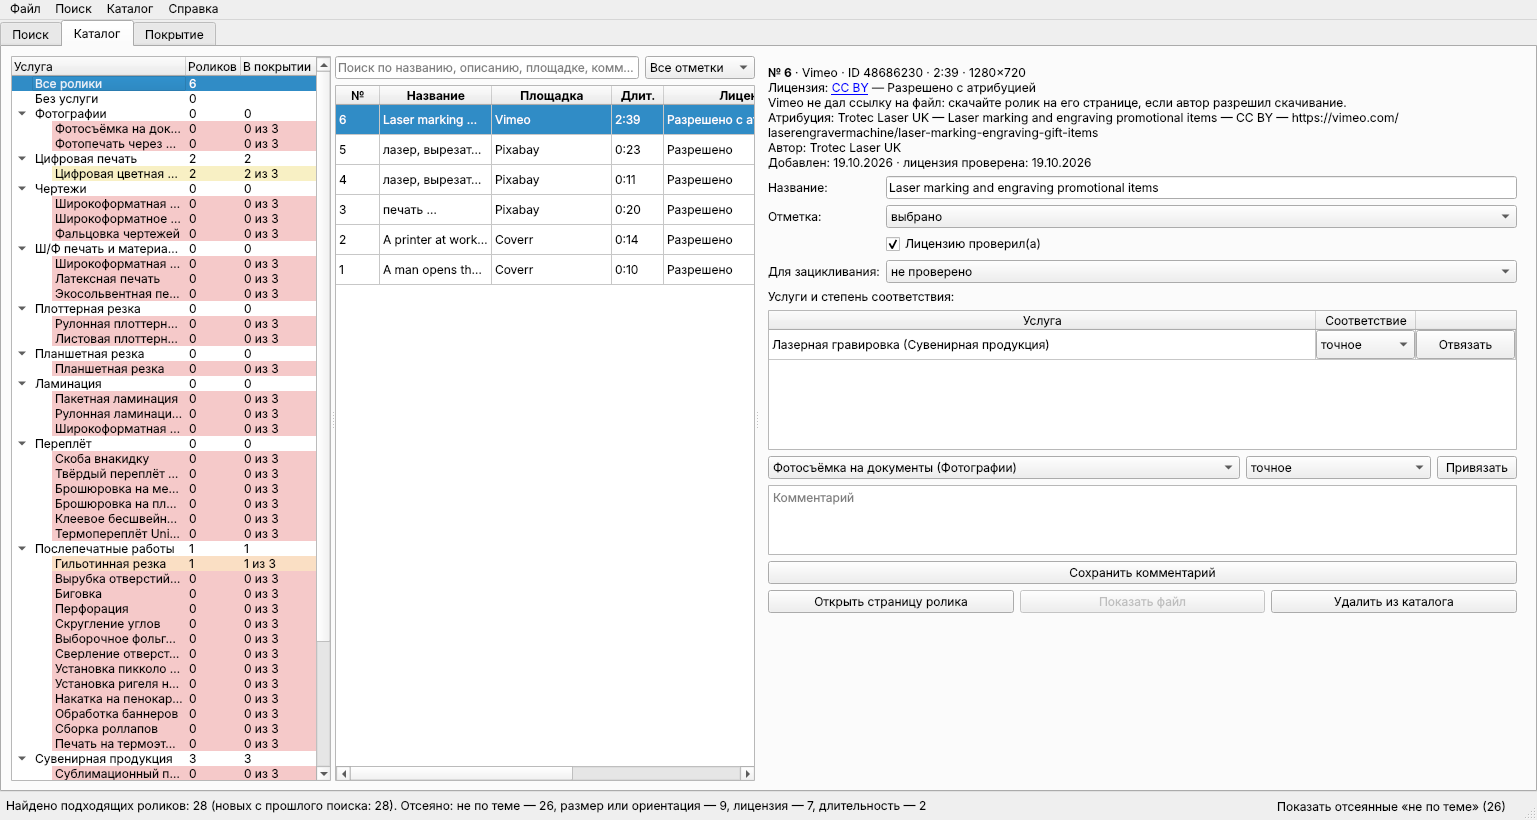
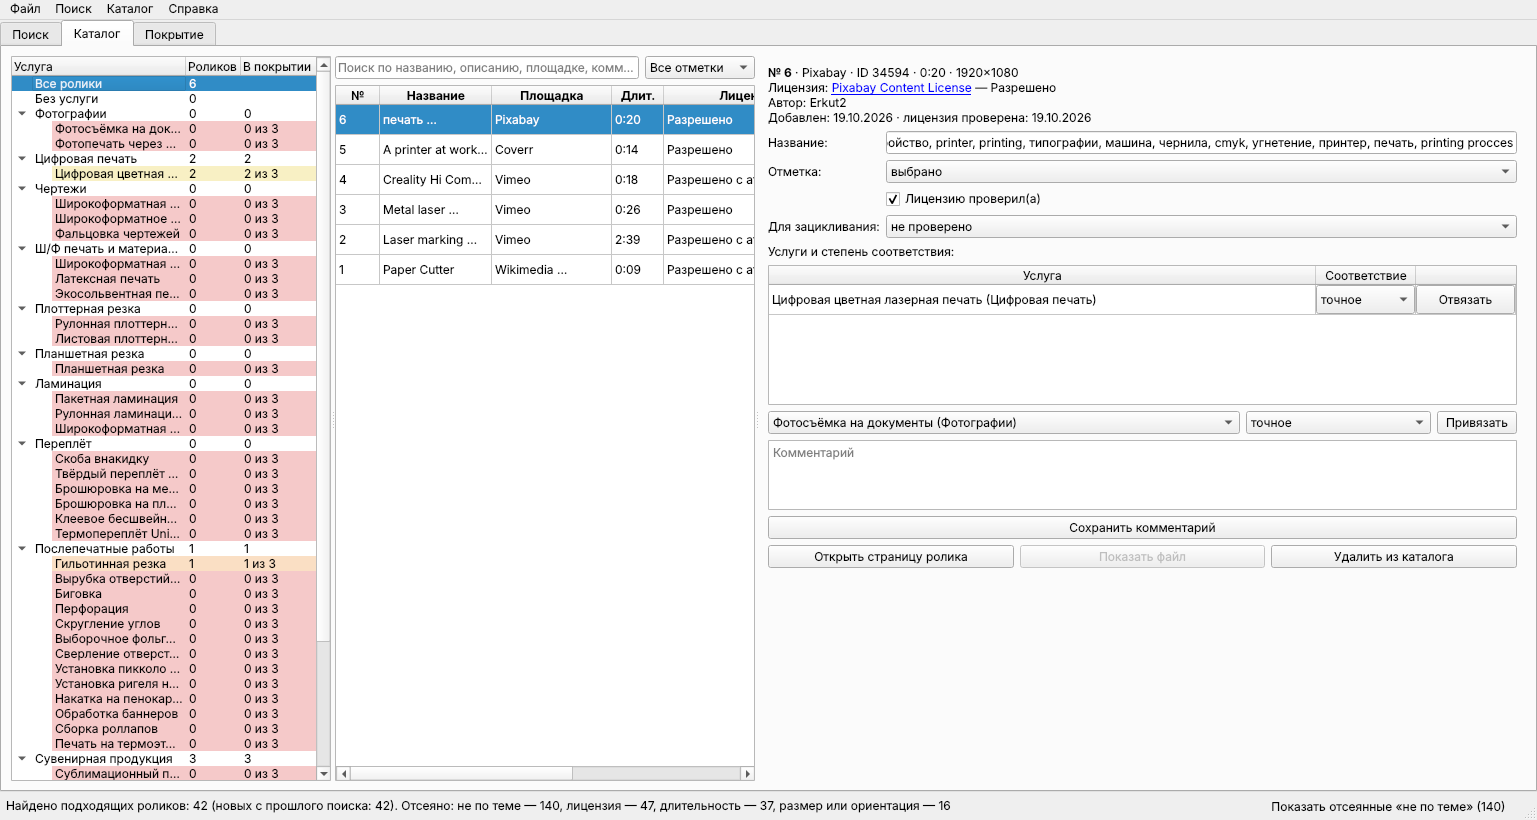
Отсев металлообработки, превью Coverr в AVIF, новые скриншоты
- Чужие темы: металлообработка (сварка, кузница, плазменная резка, искры, сталь) на русском
  и английском — по «лазерной гравировке» Pixabay отдавал резку металла; сигары и табак
- Гильотинная резка: исключены шредеры и резка втулок
- Превью Coverr приходят в AVIF, который Qt не читает, — декодируются через Pillow
- Скриншоты README пересняты с исправленной выдачей
- Версия 0.11.2

Claude-Session: https://claude.ai/code/session_01Uzu7bGifGsiu2ioQ2DCZsf

diff --git a/tests/test_search.py b/tests/test_search.py
@@ -263,6 +263,10 @@ def test_service_exclude_words():
     assert is_excluded(tagged("1", "принтер, 3д печать, 3d"), plan.exclude)
     assert not is_excluded(tagged("2", "printer, office, paper"), plan.exclude)
     assert build_plan("3D-печать", procs, Dictionary.load()).exclude == frozenset()
+    guillotine = build_plan("Гильотинная резка", procs, Dictionary.load())
+    assert is_excluded(tagged("3", "A man opens the shredder machine after cutting a sheet, paper"), guillotine.exclude)
+    assert is_excluded(tagged("4", "automatic paper tube cutting machine"), guillotine.exclude)
+    assert not is_excluded(tagged("5", "Paper cutting process in a press"), guillotine.exclude)
 
 
 @pytest.mark.parametrize("tags, ok", [
@@ -276,6 +280,14 @@ def test_service_exclude_words():
     ("Solid State Delayed Lenz Effect in laminated steel core proved with the VRM measurement", False),
     ("mug, sublimation, heat press, souvenir", True),
     ("printing 3d, printer 3d, close 3d printing", True),
+    # Настоящий промах Pixabay по «лазерной гравировке»: плазменная резка металла с искрами.
+    ("лазер, вырезать, элемент дизайна, точность, гравировка, пламя, горящий, искры, самодельный, кузнец, "
+     "стали, ремесло, металлический, металлоконструкции, ручной работы", False),
+    ("laser, cut out, design element, accuracy, engraving, flame, burning, sparks, blacksmith, steel, metalwork", False),
+    ("машина лазера, лазерная резка, технология, лазер, плазмы, промышленный, фабрика, стали, металл", False),
+    ("laser engraving, acrylic, souvenir, gift, keychain", True),
+    ("лазерная гравировка, металлическая ручка, сувенир, подарок", True),
+    ("How to Properly Cut a Cigar with a Guillotine Cutter", False),
 ])
 def test_only_printing_domain(tags, ok):
     from app.search import is_relevant

diff --git a/app/ui/main_window.py b/app/ui/main_window.py
@@ -1,12 +1,13 @@
 """Главное окно: одно поле ввода услуги, сетка результатов и панель просмотра."""
 
+import io
 from html import escape
 
 from datetime import datetime
 from pathlib import Path
 
 from PyQt6.QtCore import QSize, QStringListModel, Qt, QTimer, QUrl
-from PyQt6.QtGui import QAction, QDesktopServices, QIcon, QPixmap
+from PyQt6.QtGui import QAction, QDesktopServices, QIcon, QImage, QPixmap
 from PyQt6.QtNetwork import QNetworkAccessManager, QNetworkReply, QNetworkRequest
 from PyQt6.QtWidgets import (
     QCompleter,
@@ -50,6 +51,22 @@ from app.ui.tools import DictionaryDialog, DuplicatesDialog, HistoryDialog
 from app.ui.update import UpdateController
 
 THUMB = QSize(256, 144)
+
+
+def load_image(data: bytes) -> QImage:
+    """Картинка превью. Форматы, которых Qt не знает (Coverr отдаёт AVIF), — через Pillow."""
+    image = QImage()
+    if image.loadFromData(data):
+        return image
+    try:
+        from PIL import Image
+        with Image.open(io.BytesIO(data)) as img:
+            png = io.BytesIO()
+            img.convert("RGB").save(png, "PNG")
+        image.loadFromData(png.getvalue())
+    except (OSError, ValueError):
+        pass  # битая картинка — плитка без превью
+    return image
 
 
 def all_sources(settings: Settings, cache: Cache) -> list[Source]:
@@ -472,8 +489,9 @@ class MainWindow(QMainWindow):
     def _on_thumbnail(self, reply: QNetworkReply):
         token = reply.request().attribute(QNetworkRequest.Attribute.User)
         if reply.error() == QNetworkReply.NetworkError.NoError and token is not None:
-            pixmap = QPixmap()
-            if pixmap.loadFromData(reply.readAll()):
+            image = load_image(bytes(reply.readAll()))
+            if not image.isNull():
+                pixmap = QPixmap.fromImage(image)
                 item = self._thumb_items.get(str(token))
                 if item and self.results.row(item) >= 0:
                     item.setIcon(QIcon(pixmap.scaled(THUMB, Qt.AspectRatioMode.KeepAspectRatio,

diff --git a/app/topic.py b/app/topic.py
@@ -116,9 +116,14 @@ FOREIGN = (
     "cement", "timber", "kitchen", "cooking", "food", "vegetable", "meat", "garlic", "recipe", "beach", "ocean",
     "coast", "mountain", "forest", "wildlife", "animal", "bird", "music", "musician", "guitar", "concert",
     "turntable", "automobile", "garden", "farm", "tractor", "steel", "physics", "experiment",
+    # металлообработка: плазменная резка, сварка, кузница — не гравировка сувениров
+    "weld", "blacksmith", "forge", "forging", "plasma", "metalwork",
+    "grinder", "grinding", "sparks", "flame", "foundry", "lathe", "cigar", "tobacco",
     "дерев", "древесин", "доски", "стройк", "строител", "плотник", "крыш", "кирпич", "бетон", "кухн", "еда",
     "готовк", "овощ", "мясо", "пляж", "океан", "горы", "лес", "животн", "птиц", "музык", "гитар", "концерт",
     "проигрыват", "автомобил", "сад", "ферм", "трактор",
+    "сталь", "стали", "стальн", "свар", "кузн", "плазм", "металлоконструкц", "металлообработ", "болгарк",
+    "шлифов", "искры", "пламя", "пламен", "литейн", "токарн", "сигар", "табак",
 )
 
 

diff --git a/tests/test_stage8.py b/tests/test_stage8.py
@@ -221,3 +221,17 @@ def test_user_dictionary_overrides_builtin(data_dir):
     paths.terms_file().write_text(json.dumps({"stopwords": [], "terms": {"пенокартон": "foamboard"}},
                                              ensure_ascii=False), encoding="utf-8")
     assert Dictionary.load().translate("пенокартон") == "foamboard"
+
+
+def test_avif_thumbnail_loads():
+    """Coverr отдаёт превью в AVIF, который Qt не читает: плитка должна получить картинку через Pillow."""
+    import io
+    from PIL import Image, features
+    if not features.check("avif"):
+        pytest.skip("Pillow без AVIF")
+    from app.ui.main_window import load_image
+    buf = io.BytesIO()
+    Image.new("RGB", (64, 36), (99, 46, 230)).save(buf, "AVIF")
+    image = load_image(buf.getvalue())
+    assert (image.width(), image.height()) == (64, 36)
+    assert load_image(b"not an image").isNull()

diff --git a/app/__init__.py b/app/__init__.py
@@ -1,1 +1,1 @@
-__version__ = "0.11.1"
+__version__ = "0.11.2"

diff --git a/README.md b/README.md
@@ -14,7 +14,7 @@
 
 **[Скачать для Windows](https://github.com/r4v3r-63/copy-video-finder/releases/latest)** · без установки, работает с флешки
 
-<img src="docs/screenshots/search.png" alt="Поиск роликов по услуге «Лазерная гравировка»" width="100%">
+<img src="docs/screenshots/search.png" alt="Поиск роликов по услуге «Цифровая цветная лазерная печать»" width="100%">
 
 </div>
 
